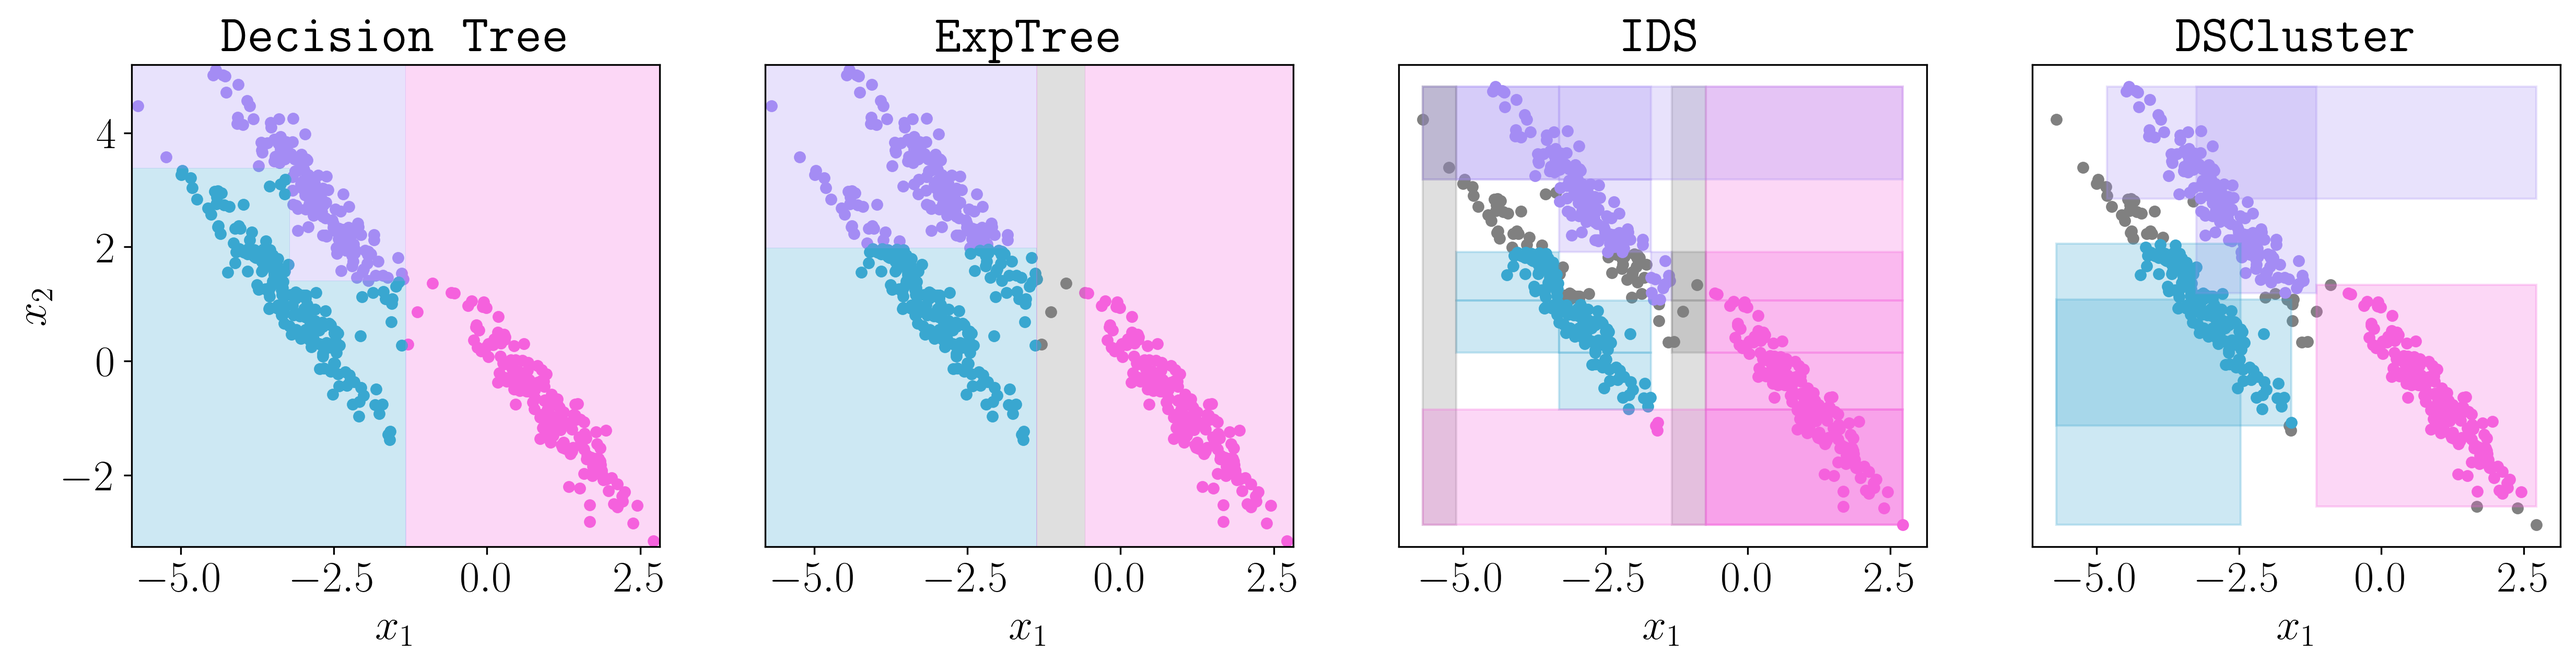
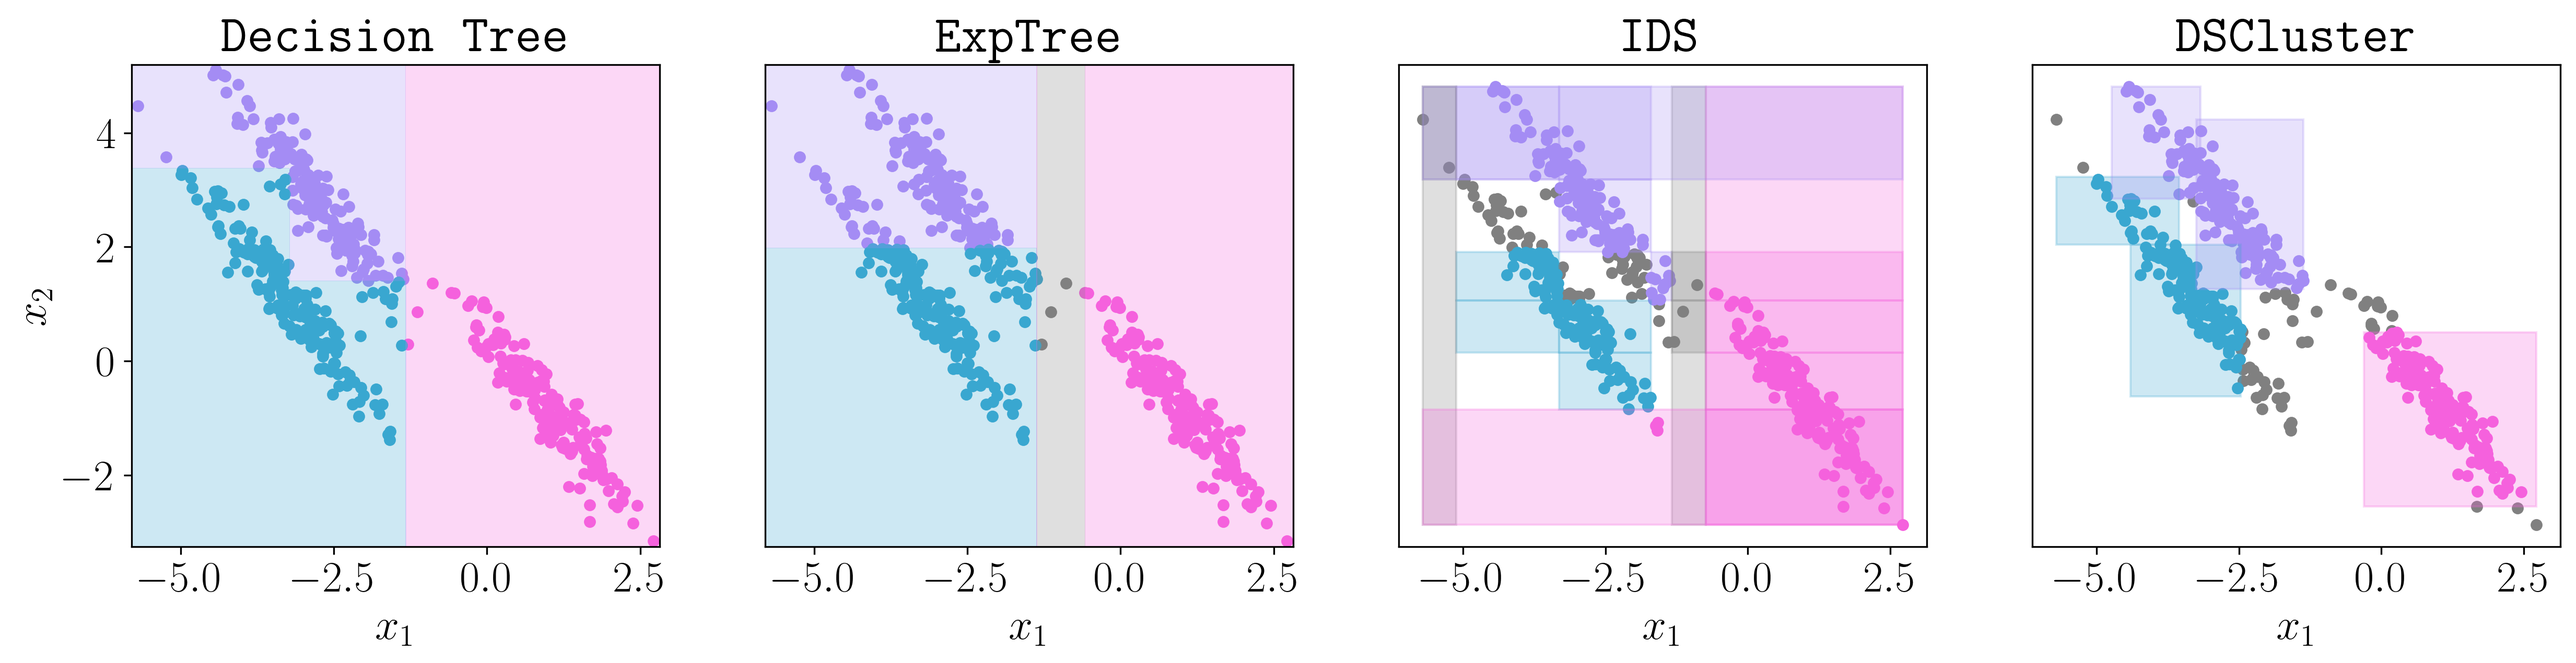
PointwiseV2

Changed region(s): [[0.7806, 0.1227, 0.9992, 0.7978]]

diff --git a/src/intercluster/mining/rule_mining.py b/src/intercluster/mining/rule_mining.py
@@ -357,3 +357,202 @@ class PointwiseMiner(RuleMiner):
 
 
 ####################################################################################################
+
+
+class PointwiseMinerV2(RuleMiner):
+    """
+    Rule miner that uses the Pointwise algorithm to generate rules. Specifically, this will 
+    expand randomly chosen rectangular regions around each data point until specified stopping 
+    conditions are reached.
+    """
+    def __init__(
+        self,
+        samples : int = 10,
+        prob_dim : float = 1/2,
+        prob_stop : float = 1.0
+    ):
+        """
+        Initialize the PointwiseMiner.
+
+        Args:
+            samples (int, optional): Number of samples to draw for each data point. 
+                Defaults to 10.
+            prob_dim (float, optional): Probability for a geometric distribution used to choose 
+                the number of dimensions to use in each rule. Defaults to 1/2, in which case 
+                the expected number of dimensions used is 2.
+            prob_stop (float, optional): Probability of stopping expansion when a 
+                mistake is encountered (geometric distribution). Defaults to 1.0, in which case
+                the expansion will always stop when a mistake is encountered.
+        """
+        if not isinstance(samples, int) or samples <= 0:
+            raise ValueError("Number of samples must be a positive integer.")
+        if not isinstance(prob_dim, float) or prob_dim < 0 or prob_dim > 1:
+            raise ValueError("prob_dim must be a floating point number in [0, 1].")
+        if not isinstance(prob_stop, float) or prob_stop < 0 or prob_stop > 1:
+            raise ValueError("prob_stop must be a floating point number in [0, 1].")
+        self.samples = samples
+        self.prob_dim = prob_dim
+        self.prob_stop = prob_stop
+        super().__init__()
+    
+
+    def fit(
+            self,
+            X : NDArray,
+            y : List[Set[int]],
+        ) -> Tuple[List[List[Condition]], List[Set[int]]]:
+        """
+        Creates rules for the decision set by drawing boxes around dense sets of points 
+        in randomly chosen dimensions. 
+
+        Args:
+            X (NDArray): Input dataset.
+            y (List[Set[int]], optional): Target labels. Defaults to None.
+
+        Returns:
+            rules (List[List[Condition]]): List of rules, where each rule is a list of conditions.
+            rule_labels (List[Set[int]]): List of labels corresponding to each rule.
+        """
+        n,d = X.shape
+        X_sorted = np.argsort(X, axis=0)
+        decision_set = []
+        decision_set_labels = []
+        cars = []
+        # Assuming for now that outliers are labeled as {-1} or set()
+        non_outliers = [i for i, label in enumerate(y) if label != {-1} and label != set()]
+
+        for _ in range(self.samples):
+            for i in non_outliers:
+                # Randomly select features to create a box around the point
+                n_features = min(np.random.geometric(self.prob_dim), d)
+                features = np.random.choice(d, n_features, replace=False)
+                satisfies = np.zeros((n, n_features), dtype=bool)
+                satisfies[i, :] = True
+
+                # Expand the box around the point until no more points can be added
+                point_loc = np.where(X_sorted[:, features] == i)[0]
+                lower_idx = np.copy(point_loc)
+                upper_idx = np.copy(point_loc)
+
+                # 2d array where row 0 indicates whether each dimension is moving its lower index,
+                # and row 1 indicates whether each dimension is moving its upper index.
+                is_moving = np.ones((2, n_features), dtype=bool)
+
+                while np.any(is_moving):
+                    # Sample from moving dimensions:
+                    moving_indices = np.where(is_moving)
+                    dim_to_move = np.random.choice(len(moving_indices[0]))
+                    dim_type = moving_indices[0][dim_to_move]  # 0 for lower, 1 for upper
+                    dim_idx = moving_indices[1][dim_to_move]                    
+
+                    # Expand in the chosen dimension:
+                    if dim_type == 0:
+                        new_idx = lower_idx[dim_idx] - 1
+                        if new_idx >= 0:
+                            new_point = X_sorted[new_idx, features[dim_idx]]
+                            satisfies[new_point, dim_idx] = True
+                            lower_idx[dim_idx] -= 1
+
+                            # Once a point has been satisfied in all dimensions, it is therefore
+                            # covered by the rule. At this point, we attempt to add it.
+                            if np.all(satisfies[new_point, :]):
+                                if y[i] == y[new_point]:
+                                    # If the label of the new point matches the label of the 
+                                    # current point, we automatically add it.
+                                    pass
+                                elif np.random.rand() > self.prob_stop:
+                                    # If the label does not match, we only add it with a 
+                                    # probability of prob_stop
+                                    pass
+                                else:
+                                    # If the point is not added, we stop expanding the box
+                                    is_moving[:] = False
+                                    satisfies[new_point, dim_idx] = False
+                                    lower_idx[dim_idx] += 1
+
+                        else:
+                            lower_idx[dim_idx] -= 1
+                            is_moving[0, dim_idx] = False
+                    else:
+                        new_idx = upper_idx[dim_idx] + 1
+                        if new_idx < n:
+                            new_point = X_sorted[new_idx, features[dim_idx]]
+                            satisfies[new_point, dim_idx] = True
+                            upper_idx[dim_idx] += 1
+
+                            # Once a point has been satisfied in all dimensions, it is therefore
+                            # covered by the rule. At this point, we attempt to add it.
+                            if np.all(satisfies[new_point, :]):
+                                if y[i] == y[new_point]:
+                                    # If the label of the new point matches the label of the 
+                                    # current point, we automatically add it.
+                                    pass
+                                elif np.random.rand() > self.prob_stop:
+                                    # If the label does not match, we only add it with a 
+                                    # probability of prob_stop
+                                    pass
+                                else:
+                                    # If the point is not added, we stop moving backwards 
+                                    # in this dimension
+                                    is_moving[:] = False
+                                    satisfies[new_point, dim_idx] = False
+                                    upper_idx[dim_idx] -= 1
+                        
+                        else:
+                            upper_idx[dim_idx] += 1
+                            is_moving[1, dim_idx] = False
+                    
+                # Add the conditions to the rule, and the rule to the decision set.
+                # Subtract 1 from the lower indices, since the lower bounds will be strict 
+                # greater-than indequalities (>)
+                lower_idx -= 1
+                rule = []
+                antecedent = []
+                for j, f in enumerate(features):
+                    feature_vec = X_sorted[:, f]
+                    lower_bound = (
+                        X[feature_vec[lower_idx[j]], f]
+                        if lower_idx[j] >= 0 else -np.inf
+                    )
+                    upper_bound = (
+                        X[feature_vec[upper_idx[j]], f]
+                        if upper_idx[j] < n else np.inf
+                    )
+
+                    condition1 = LinearCondition(
+                        features=np.array([f]),
+                        weights=np.array([1.0]),
+                        threshold=lower_bound,
+                        direction=1
+                    )
+                    condition2 = LinearCondition(
+                        features=np.array([f]),
+                        weights=np.array([1.0]),
+                        threshold=upper_bound,
+                        direction=-1
+                    )
+                    rule.append(condition1)
+                    rule.append(condition2)
+
+                    antecedent.append((f, str('(' + str(lower_bound) + ', ' + str(upper_bound) + ']')))
+
+
+                decision_set.append(rule)
+                decision_set_labels.append(y[i])
+
+                antecedent = pyarc.data_structures.antecedent.Antecedent(items = antecedent)
+                consequent = pyarc.data_structures.consequent.Consequent(attribute = 'class', value = str(list(y[i])[0]))
+                sat = satisfies_conditions(X, rule)
+                support = len(sat) / len(X)
+                confidence = len([idx for idx in sat if y[idx] == y[i]]) / len(sat) if len(sat) > 0 else 0
+                car = pyarc.data_structures.car.ClassAssocationRule(antecedent, consequent, support, confidence)
+                cars.append(car)
+
+
+        self.decision_set = decision_set
+        self.decision_set_labels = decision_set_labels
+        self.cars = cars
+        return self.decision_set, self.decision_set_labels
+
+
+####################################################################################################

diff --git a/experiments/digits/max_rules.py b/experiments/digits/max_rules.py
@@ -31,7 +31,7 @@ n_unique_labels = len(unique_labels(data_labels))
 # Parameters:
 lambda_val = 5.0
 max_rules = 20
-n_samples = 1
+n_samples = 10
 
 # KMeans:
 kmeans_n_clusters = n_unique_labels
@@ -60,24 +60,11 @@ ids_lambdas = [
     1/(data.shape[0] * ids_n_mine),
     1/(data.shape[0])
 ]
-'''
-ids_lambda_search_dict = {
-    'l1': (0, 10000),
-    'l2': (0, 10000),
-    'l3': (0, 10000),
-    'l4': (0, 10000),
-    'l5': (0, 10000),
-    'l6': (0, 10000),
-    'l7': (0, 10000)
-}
-ids_ternary_search_precision = 10.0
-ids_max_iterations = 10
-'''
 
 # Decision Set Clustering
 dsclust_n_samples = 3
 dsclust_prob_dim = 1/2
-dsclust_prob_mistake = 1/10
+dsclust_prob_stop = 8/10
 
 ####################################################################################################
 
@@ -161,10 +148,10 @@ dsclust_mod1 = DecisionSetMod(
 )
 
 # Decision Set Clustering (2) -- Pointwise Rules
-pointwise_rule_miner = PointwiseMiner(
+pointwise_rule_miner = PointwiseMinerV2(
     samples = dsclust_n_samples,
     prob_dim = dsclust_prob_dim,
-    prob_mistake = dsclust_prob_mistake,
+    prob_stop = dsclust_prob_stop,
 )
 dsclust_params2 = {
     (i,) : {
@@ -186,7 +173,7 @@ module_list = [
     (rem_tree_mod, rem_tree_params),
     (exkmc_mod, exkmc_params),
     (shallow_tree_mod, shallow_tree_params),
-    (ids_mod, ids_params),
+    #(ids_mod, ids_params),
     (dsclust_mod1, dsclust_params1),
     (dsclust_mod2, dsclust_params2)
 ]
@@ -285,10 +272,10 @@ dsclust_mod1 = DecisionSetMod(
 )
 
 # Decision Set Clustering (2) -- Pointwise Rules
-pointwise_rule_miner = PointwiseMiner(
+pointwise_rule_miner = PointwiseMinerV2(
     samples = dsclust_n_samples,
     prob_dim = dsclust_prob_dim,
-    prob_mistake = dsclust_prob_mistake,
+    prob_stop = dsclust_prob_stop,
 )
 dsclust_params2 = {
     (i,) : {
@@ -308,7 +295,7 @@ baseline = dbscan_base
 module_list = [
     (decision_tree_mod, decision_tree_params),
     (rem_tree_mod, rem_tree_params),
-    (ids_mod, ids_params),
+    #(ids_mod, ids_params),
     (dsclust_mod1, dsclust_params1),
     (dsclust_mod2, dsclust_params2)
 ]

diff --git a/src/intercluster/mining/__init__.py b/src/intercluster/mining/__init__.py
@@ -1,5 +1,6 @@
 from .rule_mining import (
     RuleMiner,
     AssociationRuleMiner,
-    PointwiseMiner
+    PointwiseMiner,
+    PointwiseMinerV2,
 )
